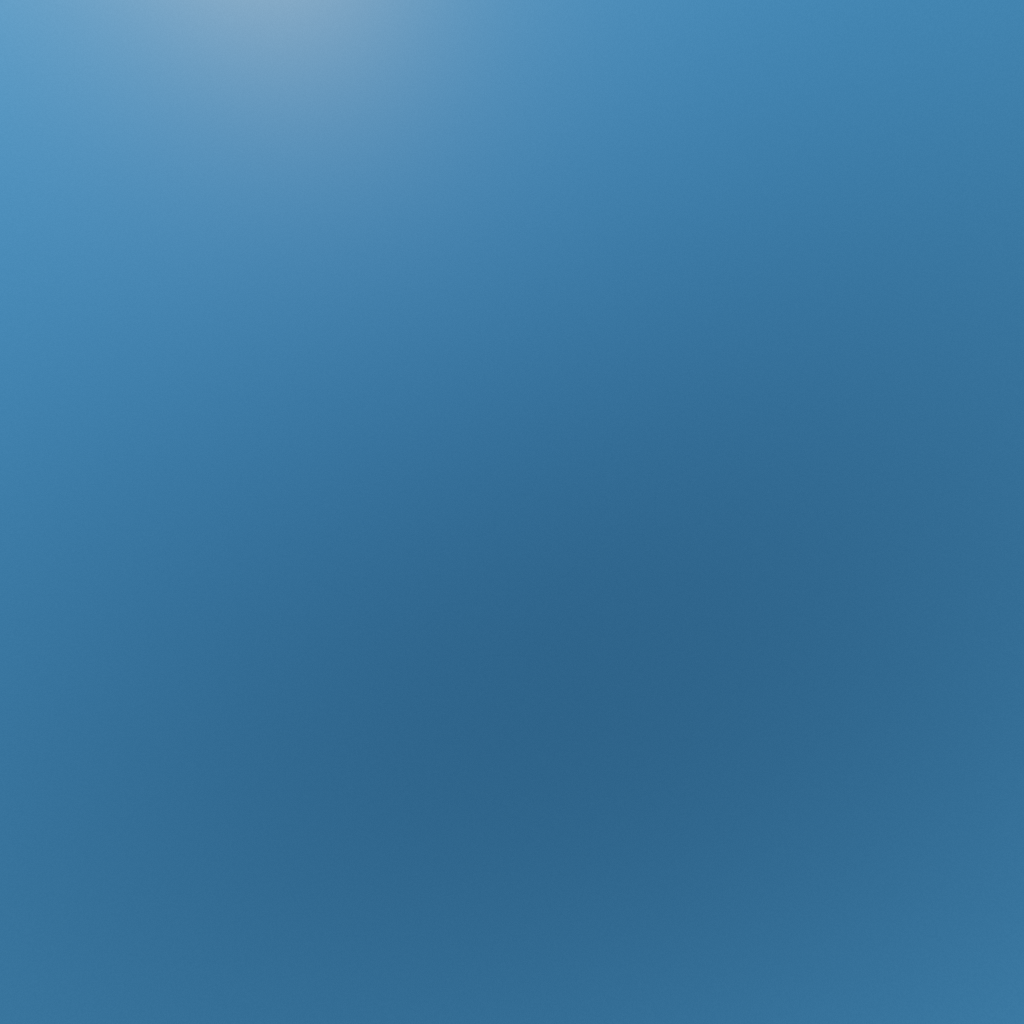
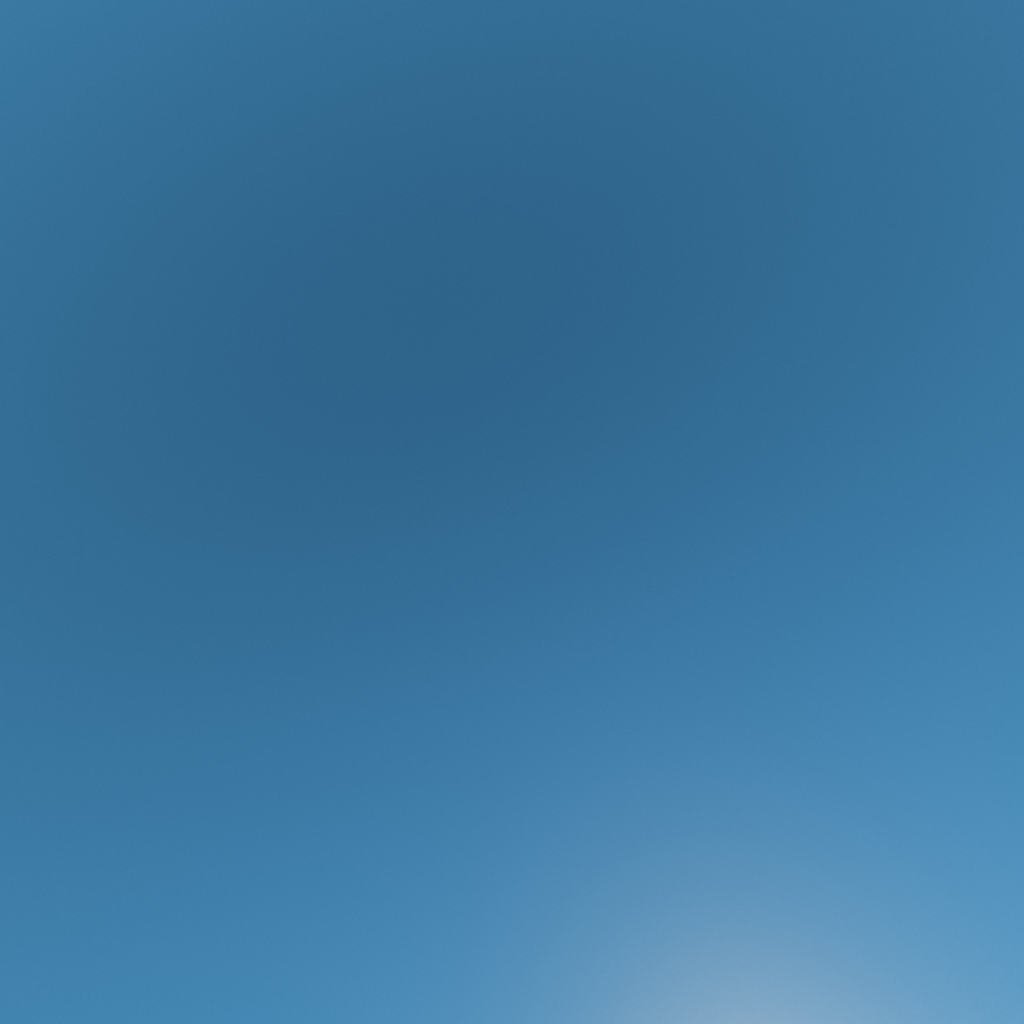
all new skyboxes used

diff --git a/Classes/WorldChunks.py b/Classes/WorldChunks.py
@@ -99,16 +99,13 @@ class World:
     
     def DrawVoxel(self, worldPos: np.ndarray, BlockType,BlockColor):
         """Place a block at world position, creating chunks as needed"""
-        worldPos=worldPos+0.5
+        
         wx, wy, wz = map(int, np.floor(worldPos))
         
-        # print(f"\n=== DrawVoxel called ===")
-        # print(f"World position: ({wx}, {wy}, {wz})")
 
         # Compute chunk coordinates
         cx, cy, cz = wx // Chunk_Size, wy // Chunk_Size, wz // Chunk_Size
         chunk_coords = (cx, cy, cz)
-        # print(f"Chunk coords: {chunk_coords}")
 
         # Get or create the chunk
         chunk = self.GetOrCreateChunk(chunk_coords)
@@ -117,21 +114,18 @@ class World:
         lx = wx % Chunk_Size
         ly = wy % Chunk_Size
         lz = wz % Chunk_Size
-        print(f"Local coords: ({lx}, {ly}, {lz})")
 
         # Compute 1D voxel index
         voxel_index = lx + ly * Chunk_Size + lz * Chunk_Size * Chunk_Size
-        print(f"Voxel index: {voxel_index}")
 
         if not (0 <= voxel_index < Voxel_Count):
             print(f"Index {voxel_index} out of bounds!")
             return
 
+      
         print(f"Current voxel value: {chunk.Voxels[voxel_index]}")
         chunk.Voxels[voxel_index] = BlockType
         chunk.Colors[voxel_index] = BlockColor
-        # print(f"After setting: {chunk.Voxels[voxel_index]}")
-        # print(f"✓ Block placed successfully!")
 
     def RemoveVoxel(self, worldPos: np.ndarray):
         """Remove a block at world position"""
@@ -156,20 +150,14 @@ class World:
             print(f"Block removed at ({wx}, {wy}, {wz})")
 
     def GetTargetVoxel(self, ray_origin: np.ndarray, ray_direction: np.ndarray, max_distance: float = 10.0):
-        """
-        Voxel raycasting using DDA to find block hit and placement position.
-        """
+
         ray_direction = ray_direction / np.linalg.norm(ray_direction)
 
         x, y, z = map(int, np.floor(ray_origin))
-        
-        print(f"\n=== GetTargetVoxel called ===")
-        print(f"Ray origin: {ray_origin}")
-        print(f"Starting voxel: ({x}, {y}, {z})")
 
-        step_x = int(np.sign(ray_direction[0])) if ray_direction[0] != 0 else 0
-        step_y = int(np.sign(ray_direction[1])) if ray_direction[1] != 0 else 0
-        step_z = int(np.sign(ray_direction[2])) if ray_direction[2] != 0 else 0
+        step_x = int(np.sign(ray_direction[0]))
+        step_y = int(np.sign(ray_direction[1]))
+        step_z = int(np.sign(ray_direction[2]))
 
         tMax_x = ((x + (step_x > 0)) - ray_origin[0]) / ray_direction[0] if ray_direction[0] != 0 else float('inf')
         tMax_y = ((y + (step_y > 0)) - ray_origin[1]) / ray_direction[1] if ray_direction[1] != 0 else float('inf')
@@ -180,57 +168,56 @@ class World:
         tDelta_z = abs(1 / ray_direction[2]) if ray_direction[2] != 0 else float('inf')
 
         distance_traveled = 0.0
+        hit_normal = (0, 0, 0)
+        # Keep track of last empty voxel along the ray
         last_empty = (x, y, z)
-        steps = 0
 
         while distance_traveled <= max_distance:
-            steps += 1
-            
-            # Check if current voxel contains a block
-            chunk_key = (x // Chunk_Size, y // Chunk_Size, z // Chunk_Size)
-            
-            # Only check chunks that exist (don't create new ones during raycast)
-            if chunk_key in self.WorldMap:
-                chunk = self.WorldMap[chunk_key]
-                lx = x - chunk_key[0] * Chunk_Size
-                ly = y - chunk_key[1] * Chunk_Size
-                lz = z - chunk_key[2] * Chunk_Size
-                voxel_index = lx + ly * Chunk_Size + lz * Chunk_Size * Chunk_Size
-                
-                if 0 <= voxel_index < Voxel_Count:
-                    voxel_value = chunk.Voxels[voxel_index]
-                    
-                    if voxel_value != 0:
-                        hit_pos = (x, y, z)
-                        place_pos = last_empty
-                        print(f"✓ HIT at step {steps}! Block at {hit_pos}, place at {place_pos}")
-                        print("==============================\n")
-                        return hit_pos, place_pos
-
-            # Save current position before stepping
-            last_empty = (x, y, z)
 
             # Step to next voxel
             if tMax_x < tMax_y:
                 if tMax_x < tMax_z:
                     x += step_x
+                    hit_normal = (-step_x, 0, 0)
                     distance_traveled = tMax_x
                     tMax_x += tDelta_x
                 else:
                     z += step_z
+                    hit_normal = (0, 0, -step_z)
                     distance_traveled = tMax_z
                     tMax_z += tDelta_z
             else:
                 if tMax_y < tMax_z:
                     y += step_y
+                    hit_normal = (0, -step_y, 0)
                     distance_traveled = tMax_y
                     tMax_y += tDelta_y
                 else:
                     z += step_z
+                    hit_normal = (0, 0, -step_z)
                     distance_traveled = tMax_z
                     tMax_z += tDelta_z
 
-        print(f"No hit after {steps} steps - returning last position for mid-air placement")
-        print("==============================\n")
-        # Return the last empty position for mid-air block placement
-        return None, last_empty
+            last_empty=(x,y,z)
+
+            chunk_key = (x // Chunk_Size, y // Chunk_Size, z // Chunk_Size)
+            if chunk_key not in self.WorldMap:
+                continue
+
+            chunk = self.WorldMap[chunk_key]
+            lx = x - chunk_key[0] * Chunk_Size
+            ly = y - chunk_key[1] * Chunk_Size
+            lz = z - chunk_key[2] * Chunk_Size
+
+            voxel_index = lx + ly * Chunk_Size + lz * Chunk_Size * Chunk_Size
+            if 0 <= voxel_index < Voxel_Count:
+                if chunk.Voxels[voxel_index] != 0:
+                    hit_pos = (x, y, z)
+                    place_pos = (
+                        x + hit_normal[0],
+                        y + hit_normal[1],
+                        z + hit_normal[2]
+                    )
+                    return hit_pos, place_pos
+
+        return None, last_empty 
